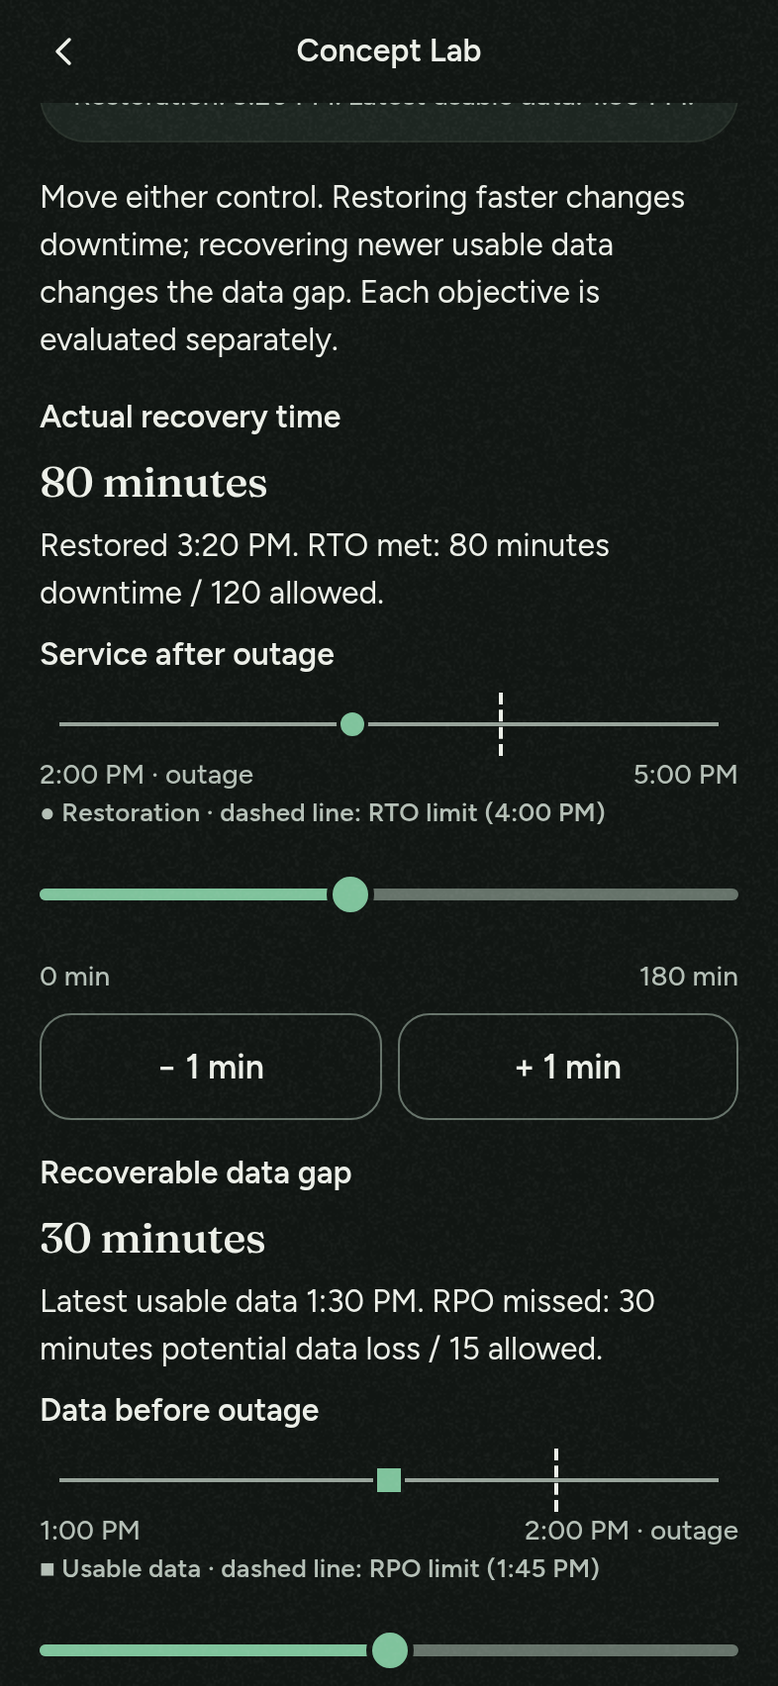
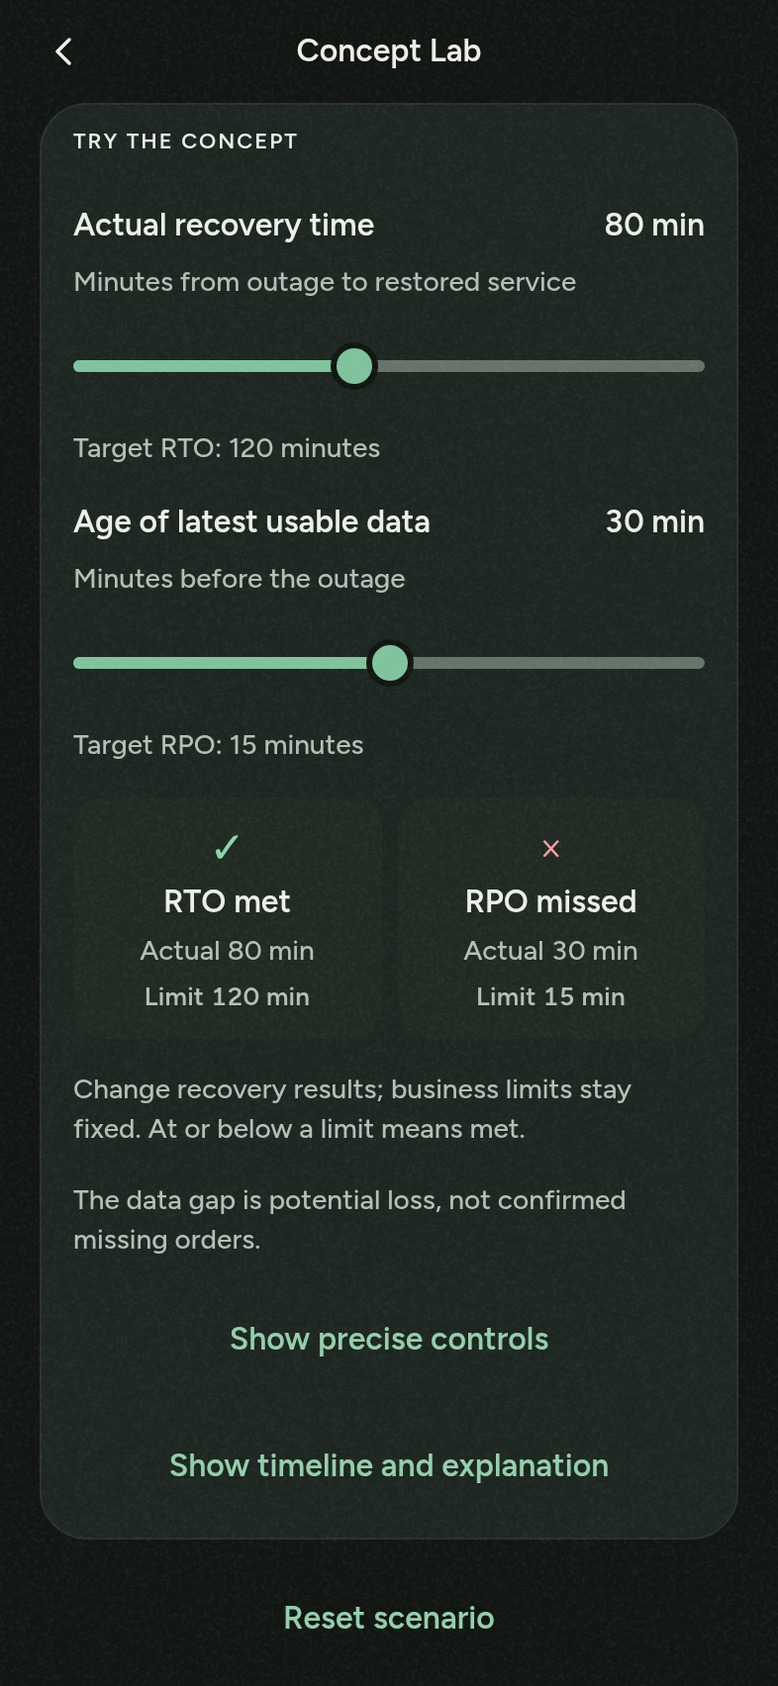
Make recovery comparisons clearer without intercepting scroll gestures
Follow the owner's compact illustration and independent novice review with explicit actual/limit labels and on-demand detail. Let vertical scrolling cancel taps and capture only deliberate horizontal slider movement, with native accessibility alternatives and touch regressions preserved.

diff --git a/mobile/src/components/conceptLab.tsx b/mobile/src/components/conceptLab.tsx
@@ -1,23 +1,34 @@
 /** Offline lab instruments. Visual positions supplement the complete written/spoken values. */
-import { useEffect, useRef, useState, type ReactNode } from 'react';
+import { useEffect, useRef, useState } from 'react';
 import { PanResponder, Pressable, View } from 'react-native';
 import Animated, { ReduceMotion, useAnimatedStyle, useSharedValue, withTiming } from 'react-native-reanimated';
 import { useMotion } from './motion';
-import { Button, T } from './ui';
+import { Button, T, useFontScale } from './ui';
 import { motion, space } from '../theme/tokens';
 import { useTheme } from '../theme/useTheme';
 import { formatClock } from '../engine/conceptLab';
 
-export function LabRange({ label, value, max, onChange, visual, detail }: { visual?: ReactNode; detail?: string; label: string; value: number; max: number; onChange: (n: number) => void }) {
+export function LabRange({ label, value, max, onChange, target, meaning, precise = true }: { meaning?: string; target?: string; precise?: boolean; label: string; value: number; max: number; onChange: (n: number) => void }) {
   const { c } = useTheme();
   const [width, setWidth] = useState(1);
   const latest = useRef({ width, max, onChange });
+  const range = useRef<View>(null);
+  const direction = useRef<'pending' | 'vertical'>('pending');
   useEffect(() => { latest.current = { width, max, onChange }; }, [width, max, onChange]);
   // PanResponder stores these callbacks; refs are read only later, during touch events.
   // eslint-disable-next-line react-hooks/refs
   const [responder] = useState(() => PanResponder.create({
-    onStartShouldSetPanResponder: () => true,
-    onMoveShouldSetPanResponder: (_, g) => Math.abs(g.dx) > Math.abs(g.dy),
+    // Let Pressability handle taps and let the parent ScrollView cancel them on scroll.
+    onStartShouldSetPanResponderCapture: () => { direction.current = 'pending'; return false; },
+    onStartShouldSetPanResponder: () => false,
+    onMoveShouldSetPanResponderCapture: (_, g) => {
+      if (direction.current === 'vertical') return false;
+      if (Math.abs(g.dy) > 6 && Math.abs(g.dy) >= Math.abs(g.dx)) {
+        direction.current = 'vertical';
+        return false;
+      }
+      return Math.abs(g.dx) > 6 && Math.abs(g.dx) > Math.abs(g.dy) * 1.2;
+    },
     onPanResponderGrant: (e) => {
       const p = latest.current;
       p.onChange(Math.round(Math.max(0, Math.min(1, e.nativeEvent.locationX / p.width)) * p.max));
@@ -29,34 +40,57 @@ export function LabRange({ label, value, max, onChange, visual, detail }: { visu
   }));
   const adjust = (delta: number) => onChange(Math.max(0, Math.min(max, value + delta)));
   return <View style={{ gap: space.sm }}>
-    <T v="label">{label}</T>
-    <T v="title" num>{value} minutes</T>
-    {detail && <T v="body">{detail}</T>}
-    {visual}
+    <View style={{ flexDirection: 'row', flexWrap: 'wrap', justifyContent: 'space-between', alignItems: 'baseline', gap: space.sm }}>
+      <T v="label" style={{ flexShrink: 1 }}>{label}</T>
+      <T v="label" num>{value} min</T>
+    </View>
+    {meaning && <T v="meta">{meaning}</T>}
     <View
       {...responder.panHandlers}
+      onLayout={(e) => setWidth(e.nativeEvent.layout.width)}
+    >
+    <Pressable
+      ref={range}
       testID={`lab-range-${max}`}
+      onPress={(e) => {
+        if (direction.current === 'vertical') return;
+        const localX = e.nativeEvent.locationX;
+        if (Number.isFinite(localX)) {
+          const p = latest.current;
+          p.onChange(Math.round(Math.max(0, Math.min(1, localX / p.width)) * p.max));
+          return;
+        }
+        // Web Pressability may supply a TouchEvent instead of a responder event.
+        const pageX = e.nativeEvent.changedTouches?.[0]?.pageX ?? e.nativeEvent.pageX;
+        if (!Number.isFinite(pageX)) return;
+        const host = range.current;
+        host?.measureInWindow((originX, _y, measuredWidth) => {
+          if (range.current !== host || direction.current === 'vertical' || !Number.isFinite(originX) || !Number.isFinite(measuredWidth) || measuredWidth <= 0) return;
+          const p = latest.current;
+          p.onChange(Math.round(Math.max(0, Math.min(1, (pageX - originX) / measuredWidth)) * p.max));
+        });
+      }}
       accessible accessibilityRole="adjustable" accessibilityLabel={label}
-      accessibilityHint="Swipe up or down to change by one minute, or use the decrease and increase buttons below"
+      accessibilityHint={`${meaning ? `${meaning}. ` : ''}Swipe up or down to change by one minute. Show precise controls for decrease and increase buttons.`}
       accessibilityValue={{ min: 0, max, now: value, text: `${value} minutes` }}
       accessibilityActions={[{ name: 'increment' }, { name: 'decrement' }]}
       onAccessibilityAction={(e) => {
         if (e.nativeEvent.actionName === 'increment') adjust(1);
         if (e.nativeEvent.actionName === 'decrement') adjust(-1);
       }}
-      onLayout={(e) => setWidth(e.nativeEvent.layout.width)}
       style={{ minHeight: 48, justifyContent: 'center' }}
     >
       <View pointerEvents="none" style={{ height: 6, backgroundColor: c.control, borderRadius: 3 }}>
         <View style={{ width: `${value / max * 100}%`, height: 6, backgroundColor: c.accent, borderRadius: 3 }} />
       </View>
       <View pointerEvents="none" style={{ position: 'absolute', left: `${value / max * 100}%`, marginLeft: -12, width: 24, height: 24, borderRadius: 12, backgroundColor: c.accent, borderWidth: 3, borderColor: c.bg }} />
+    </Pressable>
     </View>
-    <View style={{ flexDirection: 'row', justifyContent: 'space-between' }}><T v="meta">0 min</T><T v="meta">{max} min</T></View>
-    <View style={{ flexDirection: 'row', flexWrap: 'wrap', gap: space.sm }}>
+    {target ? <T v="meta">{target}</T> : <View style={{ flexDirection: 'row', justifyContent: 'space-between' }}><T v="meta">0 min</T><T v="meta">{max} min</T></View>}
+    {precise && <View style={{ flexDirection: 'row', flexWrap: 'wrap', gap: space.sm }}>
       <Button kind="secondary" label="− 1 min" accessibilityLabel={`Decrease ${label}`} disabled={value === 0} onPress={() => adjust(-1)} style={{ flexGrow: 1 }} />
       <Button kind="secondary" label="+ 1 min" accessibilityLabel={`Increase ${label}`} disabled={value === max} onPress={() => adjust(1)} style={{ flexGrow: 1 }} />
-    </View>
+    </View>}
   </View>;
 }
 
@@ -91,4 +125,21 @@ function TimelineRail({ label, value, target, max, start, end, targetLabel, squa
 export function LabChoice({ text, selected, onPress }: { text: string; selected: boolean; onPress: () => void }) {
   const { c } = useTheme();
   return <Pressable accessibilityRole="radio" accessibilityLabel={text} accessibilityState={{ checked: selected }} onPress={onPress} style={{ minHeight: 56, padding: space.md, borderWidth: selected ? 2 : 1, borderColor: selected ? c.accent : c.line, borderRadius: 12, backgroundColor: selected ? c.soft : c.bg }}><T v="body">{selected ? '● ' : '○ '}{text}</T></Pressable>;
+}
+
+/** Compact comparison: labels and symbols carry the verdict, independently of colour. */
+export function LabOutcomes({ recovery, gap, rto, rpo }: { recovery: number; gap: number; rto: number; rpo: number }) {
+  const { c } = useTheme();
+  const large = useFontScale() >= 1.3;
+  return <View testID="lab-result" style={{ flexDirection: large ? 'column' : 'row', gap: space.sm }}>
+    {[{ name: 'RTO', actual: recovery, limit: rto }, { name: 'RPO', actual: gap, limit: rpo }].map(({ name, actual, limit }) => {
+      const met = actual <= limit;
+      return <View key={name} style={{ flex: large ? undefined : 1, minWidth: 0, backgroundColor: c.soft, borderRadius: 16, padding: space.md, gap: space.xs, alignItems: 'center' }}>
+        <View importantForAccessibility="no-hide-descendants" accessibilityElementsHidden><T v="title" color={met ? c.correct : c.wrong}>{met ? '✓' : '×'}</T></View>
+        <View accessible accessibilityLiveRegion="polite"><T v="label">{`${name} ${met ? 'met' : 'missed'}`}</T></View>
+        <T v="meta" num>Actual {actual} min</T>
+        <T v="caption" num>Limit {limit} min</T>
+      </View>;
+    })}
+  </View>;
 }

diff --git a/mobile/src/__tests__/conceptLab-screens.test.tsx b/mobile/src/__tests__/conceptLab-screens.test.tsx
@@ -1,6 +1,6 @@
 /** Synthetic, in-memory lab journeys: no existing tester save is read or mutated. */
 import { act, create, type ReactTestInstance, type ReactTestRenderer } from 'react-test-renderer';
-import { Dimensions } from 'react-native';
+import { Dimensions, PanResponder, type GestureResponderEvent, type PanResponderGestureState } from 'react-native';
 import { router } from 'expo-router';
 import LabCatalog from '../app/labs';
 import LabDetail from '../app/labs/[id]';
@@ -36,7 +36,7 @@ it('opens the catalog lab and leaves existing progress untouched through explora
   expect(text()).toContain('3:20 PM'); expect(text()).toContain('1:30 PM');
   press('Experiment with recovery'); adjust(121, 15); expect(text()).toContain('RTO missed');
   press('Apply your judgment');
-  press('Report the RPO exception, corroborate the usable data point, and recommend remediation and retesting against approved objectives.');
+  press('Report the missed RPO, verify the usable data, and recommend a fix and retest.');
   press('Check reasoning'); expect(text()).toContain('Management owns the risk');
   press('Read the related lesson'); expect(router.push).toHaveBeenCalledWith('/lesson/cisa-l-d4-rpo-rto');
   press('Open the recovery study note'); expect(router.push).toHaveBeenCalledWith('/notes/subtopic/4B1.2');
@@ -58,7 +58,7 @@ it('adjustable actions and increment alternatives are bounded and labelled', () 
   const slider = () => r!.root.findAll(n => n.props.accessibilityRole === 'adjustable' && n.props.accessibilityLabel === 'Actual recovery time')[0];
   expect(slider().props.accessibilityValue).toMatchObject({ min: 0, max: 180, now: 80 });
   act(() => { slider().props.onAccessibilityAction({ nativeEvent: { actionName: 'increment' } }); });
-  expect(slider().props.accessibilityValue.now).toBe(81); press('Decrease Actual recovery time'); expect(slider().props.accessibilityValue.now).toBe(80);
+  expect(slider().props.accessibilityValue.now).toBe(81); press('Show precise controls'); press('Decrease Actual recovery time'); expect(slider().props.accessibilityValue.now).toBe(80);
   adjust(0, 60); const decrease = r!.root.findAll(n => n.props.accessibilityLabel === 'Decrease Actual recovery time' && n.props.disabled === true); expect(decrease.length).toBeGreaterThan(0);
 });
 it.each([undefined, '%', 'missing', '__proto__'])('handles invalid or absent lab ID %s', id => { mockParams = { id }; mount(<LabDetail />); expect(text()).toContain('Lab not found'); press('Browse labs'); expect(router.replace).toHaveBeenCalledWith('/labs'); });
@@ -79,7 +79,7 @@ it.each(['light', 'dark'] as const)('renders controls and all stages at 200%% te
   useSettings.setState({ theme, motion: 'reduced' }); const w = Dimensions.get('window'); act(() => { Dimensions.set({ window: { ...w, width: 360, fontScale: 2 }, screen: { ...w, width: 360, fontScale: 2 } }); });
   mount(<LabDetail />); press('Experiment with recovery'); expect(r!.root.findAllByType(LabRange)).toHaveLength(2); press('Apply your judgment'); expect(text()).toContain('Source references');
 });
-it.each(['Accept recovery because the service returned within the RTO.', 'Ask IT to increase the RPO to match the test result.'])('explains why the plausible action is insufficient: %s', option => {
+it.each(['Accept the exercise because service returned within the approved RTO.', 'Ask IT to increase the RPO so it matches the recovery exercise.'])('explains why the plausible action is insufficient: %s', option => {
   mount(<LabDetail />); press('3. Apply'); press(option); press('Check reasoning');
   expect(text()).toContain('Look at both objectives');
   expect(text()).toMatch(/RTO only|hides the exception/);
@@ -93,4 +93,55 @@ it('offers a verified optional practice set without requiring it for the lab', (
   expect(router.push).toHaveBeenCalledWith('/session');
   expect(useProgress.getState()).toBe(before);
   useSession.setState({ active: null });
+});
+
+it('keeps the experiment concise and reveals timelines only on request', () => {
+  mount(<LabDetail />); press('Experiment with recovery');
+  expect(text()).toContain('Target RTO: 120 minutes');
+  expect(text()).not.toMatch(/successful backup job alone/i);
+  expect(r!.root.findAll(n => n.props.testID === 'lab-service-marker')).toHaveLength(0);
+  press('Show timeline and explanation');
+  expect(text()).toContain('3:20 PM');
+  expect(text()).toContain('1:30 PM');
+  expect(text()).toMatch(/successful backup job alone/i);
+});
+
+it.each([180, 60])('preserves vertical scrolling on the %i-minute range while allowing intentional input', max => {
+  const spy = jest.spyOn(PanResponder, 'create');
+  const change = jest.fn();
+  try {
+    mount(<LabRange label="Gesture range" value={Math.round(max / 2)} max={max} onChange={change} />);
+    const config = spy.mock.calls[0][0];
+    const e = (x: number) => ({ nativeEvent: { locationX: x } }) as GestureResponderEvent;
+    const g = (dx = 0, dy = 0) => ({ dx, dy }) as PanResponderGestureState;
+    const layout = r!.root.findAll(n => typeof n.type === 'string' && typeof n.props.onLayout === 'function')[0];
+    act(() => layout.props.onLayout({ nativeEvent: { layout: { width: 300 } } }));
+    expect(config.onStartShouldSetPanResponderCapture!(e(90), g())).toBe(false);
+    expect(config.onStartShouldSetPanResponder!(e(90), g())).toBe(false);
+    expect(change).not.toHaveBeenCalled(); // touch-down is not a value change
+    expect(config.onMoveShouldSetPanResponderCapture!(e(90), g(2, 30))).toBe(false);
+    expect(config.onMoveShouldSetPanResponderCapture!(e(90), g(100, 1))).toBe(false); // vertical intent stays locked
+    const pressable = () => r!.root.findAll(n => n.props.testID === `lab-range-${max}` && typeof n.props.onPress === 'function')[0];
+    act(() => pressable().props.onPress(e(90))); // even an uncancelled release after vertical motion is ignored
+    expect(change).not.toHaveBeenCalled();
+    config.onStartShouldSetPanResponderCapture!(e(150), g());
+    expect(config.onMoveShouldSetPanResponderCapture!(e(150), g(3, 1))).toBe(false); // jitter is not a drag
+    act(() => pressable().props.onPress(e(150)));
+    expect(change).toHaveBeenLastCalledWith(max / 2); // deliberate tap
+    expect(config.onMoveShouldSetPanResponderCapture!(e(225), g(25, 2))).toBe(true);
+    act(() => config.onPanResponderGrant!(e(225), g(25, 2)));
+    expect(change).toHaveBeenLastCalledWith(Math.round(max * 0.75));
+    act(() => config.onPanResponderMove!(e(-20), g(-20, 0)));
+    expect(change).toHaveBeenLastCalledWith(0);
+    act(() => config.onPanResponderMove!(e(330), g(330, 0)));
+    expect(change).toHaveBeenLastCalledWith(max);
+  } finally { spy.mockRestore(); }
+});
+
+it('ignores a malformed tap rather than putting NaN into the scenario', () => {
+  const change = jest.fn();
+  mount(<LabRange label="Touch tap" value={80} max={180} onChange={change} />);
+  const pressable = r!.root.findAll(n => n.props.testID === 'lab-range-180' && typeof n.props.onPress === 'function')[0];
+  act(() => pressable.props.onPress({ nativeEvent: {} }));
+  expect(change).not.toHaveBeenCalled();
 });

diff --git a/mobile/src/app/labs/[id].tsx b/mobile/src/app/labs/[id].tsx
@@ -2,7 +2,7 @@ import { router, useLocalSearchParams } from 'expo-router';
 import { useEffect, useRef, useState } from 'react';
 import { ScrollView, View } from 'react-native';
 import { EmptyScreen } from '../../components/emptyScreen';
-import { LabChoice, LabRange, LabTimeline } from '../../components/conceptLab';
+import { LabChoice, LabOutcomes, LabRange, LabTimeline } from '../../components/conceptLab';
 import { CardHead, HubCard, PageTitle } from '../../components/groveHub';
 import { Button, PushedHeader, Screen, T } from '../../components/ui';
 import { findLab, type ConceptLab } from '../../content/labs';
@@ -36,6 +36,8 @@ function RecoveryLab({ lab }: { lab: ConceptLab }) {
   const [prediction, setPrediction] = useState<number | null>(null);
   const [reveal, setReveal] = useState(false);
   const [answer, setAnswer] = useState<number | null>(null);
+  const [details, setDetails] = useState(false);
+  const [precise, setPrecise] = useState(false);
   const [checked, setChecked] = useState(false);
   const challengeResult = evaluateRecovery(lab.challenge.recovery, lab.challenge.gap, lab.config);
   const result = evaluateRecovery(values.recovery, values.gap, lab.config);
@@ -59,24 +61,13 @@ function RecoveryLab({ lab }: { lab: ConceptLab }) {
         <T v="body">{lab.explore.rto}</T>
         <T v="body">{lab.explore.rpo}</T>
       </>}
-      {stage !== 2 && <>
+      {stage === 0 && <>
         <HubCard style={{ gap: space.md, paddingBottom: space.md }}>
           <CardHead title="A retailer goes offline" meta={`Outage · ${formatClock(lab.config.outageMinutes)}`} />
           <T v="body">{`Business-approved objectives: RTO ${lab.config.rto} minutes; RPO ${lab.config.rpo} minutes. Service must return by ${formatClock(lab.config.outageMinutes + lab.config.rto)}, with usable data from ${formatClock(lab.config.outageMinutes - lab.config.rpo)} or later.`}</T>
           {stage === 0 && <LabTimeline recovery={values.recovery} gap={values.gap} {...lab.config} />}
           <T v="meta">{`Restoration: ${result.restorationTime}. Latest usable data: ${result.recoveryPointTime}.`}</T>
         </HubCard>
-        {stage === 1 && <>
-          <T v="body">Move either control. Restoring faster changes downtime; recovering newer usable data changes the data gap. Each objective is evaluated separately.</T>
-          <LabRange
-            visual={<LabTimeline part="service" recovery={values.recovery} gap={values.gap} {...lab.config} />}
-            detail={`Restored ${result.restorationTime}. ${result.rtoMet ? 'RTO met' : 'RTO missed'}: ${values.recovery} minutes downtime / ${lab.config.rto} allowed.`}
-            label="Actual recovery time" value={values.recovery} max={lab.config.maxRecovery} onChange={(recovery) => setValues(v => ({ ...v, recovery }))} />
-          <LabRange
-            visual={<LabTimeline part="data" recovery={values.recovery} gap={values.gap} {...lab.config} />}
-            detail={`Latest usable data ${result.recoveryPointTime}. ${result.rpoMet ? 'RPO met' : 'RPO missed'}: ${values.gap} minutes potential data loss / ${lab.config.rpo} allowed.`}
-            label="Recoverable data gap" value={values.gap} max={lab.config.maxGap} onChange={(gap) => setValues(v => ({ ...v, gap }))} />
-        </>}
         <HubCard style={{ gap: space.md, paddingBottom: space.md }}>
           <CardHead title="Recovery result" />
           <View testID="lab-result">
@@ -89,8 +80,25 @@ function RecoveryLab({ lab }: { lab: ConceptLab }) {
           <T v="body">{result.summary}</T>
           <T v="meta">A successful backup job alone does not prove recovery. Validate that the restored service and recovered data are usable. Reconcile transaction records to determine any actual loss.</T>
         </HubCard>
-        {stage === 1 && <>
-          <Button kind="ghost" label="Reset scenario" onPress={reset} />
+      </>}
+      {stage === 1 && <>
+        <HubCard testID="lab-experiment" style={{ gap: space.lg, paddingBottom: space.md }}>
+          <CardHead title="Try the concept" />
+          <LabRange meaning="Minutes from outage to restored service" label="Actual recovery time" value={values.recovery} max={lab.config.maxRecovery} target={`Target RTO: ${lab.config.rto} minutes`} precise={precise} onChange={recovery => setValues(v => ({ ...v, recovery }))} />
+          <LabRange meaning="Minutes before the outage" label="Age of latest usable data" value={values.gap} max={lab.config.maxGap} target={`Target RPO: ${lab.config.rpo} minutes`} precise={precise} onChange={gap => setValues(v => ({ ...v, gap }))} />
+          <LabOutcomes recovery={values.recovery} gap={values.gap} rto={lab.config.rto} rpo={lab.config.rpo} />
+          <T v="meta">Change recovery results; business limits stay fixed. At or below a limit means met.</T>
+          <T v="meta">The data gap is potential loss, not confirmed missing orders.</T>
+          <Button kind="ghost" label={precise ? 'Hide precise controls' : 'Show precise controls'} expanded={precise} onPress={() => setPrecise(v => !v)} />
+          <Button kind="ghost" label={details ? 'Hide timeline and explanation' : 'Show timeline and explanation'} expanded={details} onPress={() => setDetails(v => !v)} />
+          {details && <View style={{ gap: space.md }}>
+            <T v="body">{`Outage: ${formatClock(lab.config.outageMinutes)}. Service restored: ${result.restorationTime}. Latest usable data: ${result.recoveryPointTime}.`}</T>
+            <LabTimeline recovery={values.recovery} gap={values.gap} {...lab.config} />
+            <T v="body">{result.summary}</T>
+            <T v="meta">{`Orders from the last ${values.gap} minutes before the outage may be missing. Check transaction records to find any actual loss. This model assumes usable recovery data and service restoration are verified; a successful backup job alone is insufficient.`}</T>
+          </View>}
+        </HubCard>
+        <Button kind="ghost" label="Reset scenario" onPress={reset} />
           <HubCard style={{ gap: space.md, paddingBottom: space.md }}>
             <CardHead title="Try this situation" meta="Optional prediction" />
             <T v="body">{`Before revealing: service returns after ${lab.challenge.recovery} minutes and the usable data gap is ${lab.challenge.gap} minutes. Which objectives are met?`}</T>
@@ -98,7 +106,6 @@ function RecoveryLab({ lab }: { lab: ConceptLab }) {
             <Button kind="secondary" label="Reveal outcome" disabled={prediction === null} onPress={() => { setReveal(true); sayLater(challengeResult.summary); }} />
             {reveal && <T v="body">{prediction === lab.challenge.correctIndex ? 'Correct. ' : 'Compare each limit separately. '}{challengeResult.summary} This prediction does not change your experiment.</T>}
           </HubCard>
-        </>}
       </>}
       {stage === 2 && <>
         <T v="body">{lab.apply.scenario}</T>

diff --git a/mobile/src/content/labs/index.ts b/mobile/src/content/labs/index.ts
@@ -50,7 +50,7 @@ const labs: readonly ConceptLab[] = [{
   config: DEFAULT_RECOVERY_CONFIG,
   explore: {
     rto: 'RTO (Recovery Time Objective) is the business-approved limit for how long a service may be unavailable. Measure downtime forward from the outage until the service is restored.',
-    rpo: 'RPO (Recovery Point Objective) is the business-approved tolerance for potential data loss, expressed as a time interval. Measure the gap backward from the outage to the latest usable recovery point. The gap describes exposure; transaction reconciliation determines actual loss.',
+    rpo: 'RPO (Recovery Point Objective) limits how much recent data the business can risk losing, measured in minutes. Count backward from the outage to the latest usable data. Check transaction records to find what is actually missing.',
   },
   challenge: {
     recovery: 140,
@@ -63,15 +63,15 @@ const labs: readonly ConceptLab[] = [{
     correctIndex: 1,
     options: [
       {
-        text: 'Accept recovery because the service returned within the RTO.',
+        text: 'Accept the exercise because service returned within the approved RTO.',
         feedback: 'Restoring service on time meets the RTO only. A 25-minute data gap exceeds the 10-minute RPO. A green backup-job status does not prove that usable data meets the objective.',
       },
       {
-        text: 'Report the RPO exception, corroborate the usable data point, and recommend remediation and retesting against approved objectives.',
+        text: 'Report the missed RPO, verify the usable data, and recommend a fix and retest.',
         feedback: 'Yes. The 70-minute restoration meets the 90-minute RTO, but the 25-minute gap misses the 10-minute RPO. Verify recovery and transaction-reconciliation evidence, report the exception and recommend corrective action and a retest. Management owns the risk and any change to approved objectives.',
       },
       {
-        text: 'Ask IT to increase the RPO to match the test result.',
+        text: 'Ask IT to increase the RPO so it matches the recovery exercise.',
         feedback: 'Changing the target to fit the result hides the exception. Business owners approve tolerances based on business impact; the auditor evaluates evidence, reports gaps and recommends action rather than setting recovery objectives.',
       },
     ],

diff --git a/mobile/src/__tests__/conceptLab.test.ts b/mobile/src/__tests__/conceptLab.test.ts
@@ -81,8 +81,8 @@ describe('authored lab stages', () => {
   test.each(labsFor('cisa'))('$id supplies usable explanations and complete audit reasoning', (lab) => {
     expect(lab.explore.rto).toContain('Recovery Time Objective');
     expect(lab.explore.rpo).toContain('Recovery Point Objective');
-    expect(lab.explore.rpo).toContain('potential data loss');
-    expect(lab.explore.rpo).toContain('actual loss');
+    expect(lab.explore.rpo).toContain('risk losing');
+    expect(lab.explore.rpo).toContain('actually missing');
     expect(lab.apply.scenario.trim().length).toBeGreaterThan(80);
     expect(lab.apply.options.length).toBeGreaterThanOrEqual(3);
     expect(Number.isInteger(lab.apply.correctIndex)).toBe(true);
